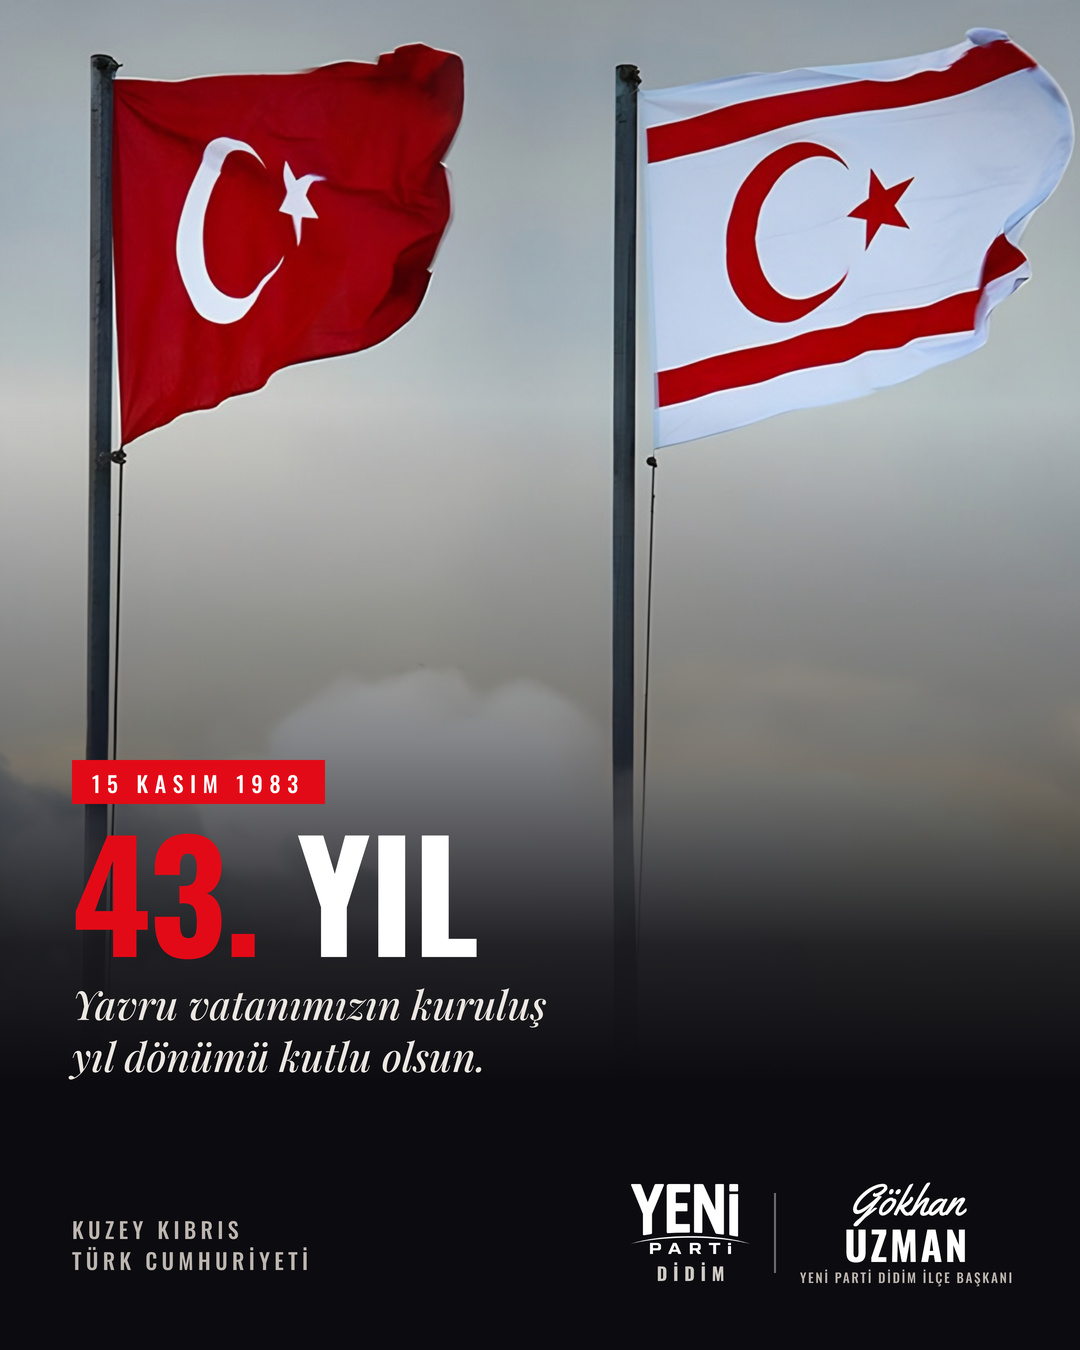
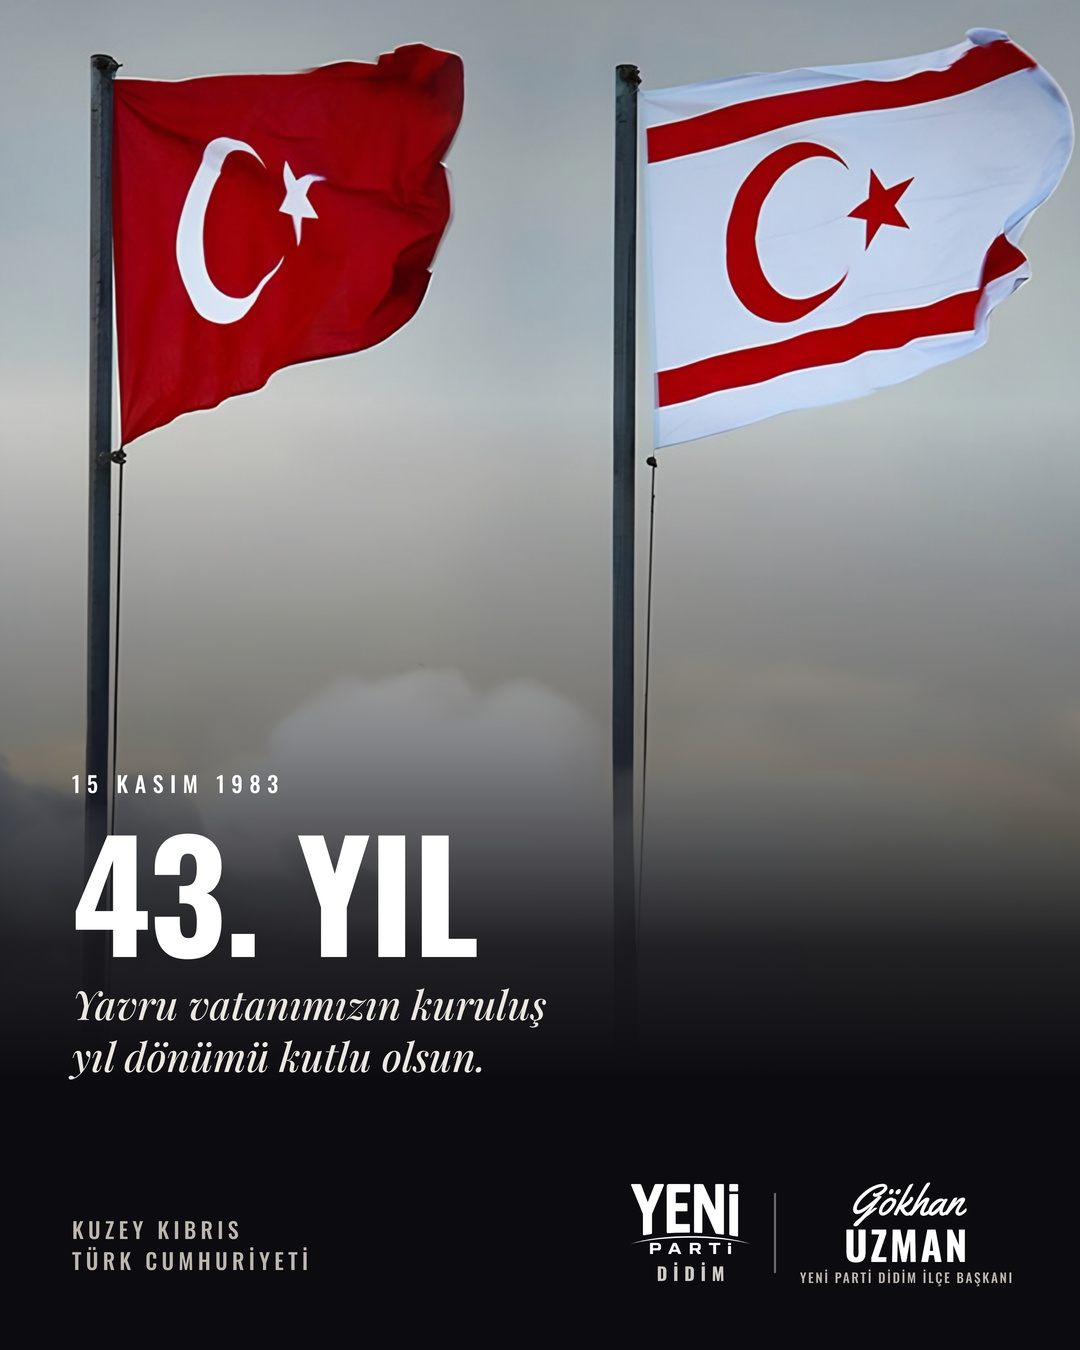
KKTC post: kırmızı yazılar beyaz yapıldı
Claude-Session: https://claude.ai/code/session_01SatttGbgBLoCnk9KGLypWv

Changed region(s): [[0.0611, 0.56, 0.3056, 0.7156]]

diff --git a/tasarim/kisisel/kktc/post.html b/tasarim/kisisel/kktc/post.html
@@ -6,9 +6,9 @@
 html,body{margin:0;width:1080px;height:1350px;overflow:hidden;background:#111;color:#fff}
 .foto{position:absolute;left:-560px;top:-50px;height:1200px}
 .kar{position:absolute;inset:0;background:linear-gradient(180deg,rgba(10,12,18,.15) 0,rgba(10,12,18,0) 30%,rgba(10,12,18,.5) 55%,rgba(10,10,14,.9) 70%,#0c0c10 80%)}
-.etiket{position:absolute;left:72px;top:760px;display:inline-flex;align-items:center;background:#E30A17;padding:12px 20px 10px;font:22px/1 O5;letter-spacing:.3em}
+.etiket{position:absolute;left:72px;top:760px;display:inline-flex;align-items:center;background:none;padding:12px 0 10px;color:#fff;font:22px/1 O5;letter-spacing:.3em}
 .b{position:absolute;left:72px;top:820px;font:150px/.92 O7;letter-spacing:-.01em}
-.b em{font-style:normal;color:#E30A17}
+.b em{font-style:normal;color:#fff}
 .s{position:absolute;left:72px;top:978px;font:40px/1.3 PF;color:#ECE7E2;width:620px}
 .imza{position:absolute;right:66px;bottom:66px;display:flex;align-items:center;gap:24px}
 .lg{display:flex;flex-direction:column;align-items:center}.lg img{height:70px}
